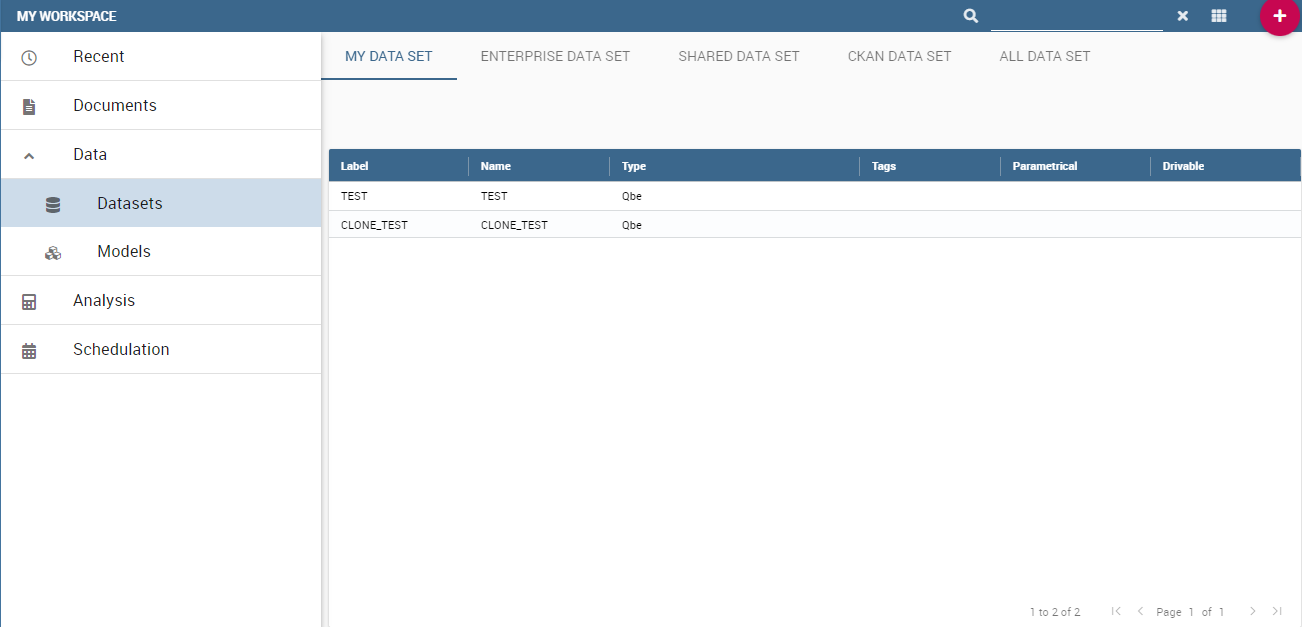
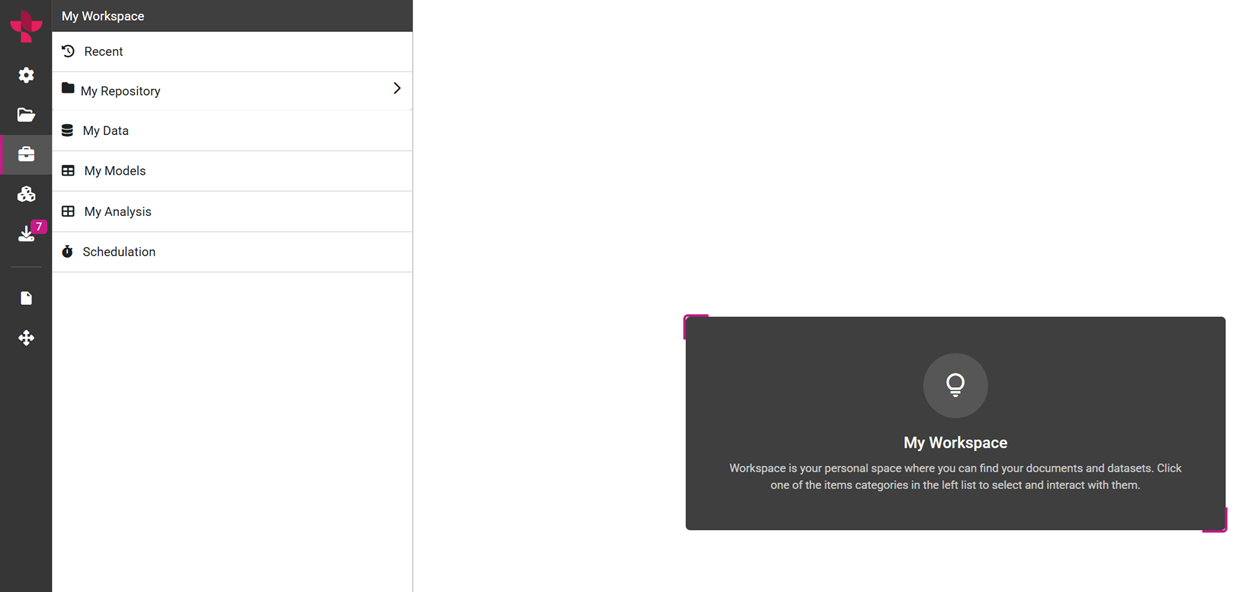
more_changes_to_user_interface_2

diff --git a/user-guide/user-interface.rst b/user-guide/user-interface.rst
@@ -12,11 +12,11 @@ The administrator will provide you a username and a password to log in Knowage e
 
    Login page
 
-These credential identifies you as user and are associated to your *role*.
+These credentials identify you as a user and are associated to your *role*.
 
 In Knowage suite, roles represent categorizations of group of users, granting each user with different rights and visibility criteria on documents and data, according to their business profile.
 
-This is what is called *Behavioural Model*. It allows to:
+This is what is called *Behavioural Model* and allows you to:
 
 -  reduce the required number of analytical documents,
 -  code only once the behavioural and visibility rules on data,
@@ -58,7 +58,7 @@ The main menu gives access to your documents, personal workspace and authorized
 modules. Expand the menu to read the labels. Your organization's configuration
 and active roles determine the entries you see.
 
-.. figure:: /_static/screenshots/9.1/user-guide-user-interface-9-1-navigation.png
+.. figure:: media/biAndGeneralMenu.png
    :alt: Knowage 9.1 main menu, document browser and account menu.
 
    Main navigation in Knowage 9.1.
@@ -93,7 +93,7 @@ My Account
       **My Account** is visible only when ``SPAGOBI.SECURITY.MY_ACCOUNT_MENU`` configuration is enabled.
   
 
-*My account* button, if enabled, allows user to access Modify profile page. Here you can change your password and, when enabled, permanently delete your account.
+The *My account* button, if enabled, allows user to access Modify profile page. Here you can change your password and, when enabled, permanently delete your account.
 
 Modify
 ^^^^^^^^^^^^^^^^^^^^^^^^^^^^^^^^^^^^^^^^^^^^^^^^^^^^^^^^^^^^^^^^^^^^^^^^^^^^^^^^^^^^^^^^^^^^^^^^^^^^^^^^^^^^^^^^^^^^^^^^
@@ -173,7 +173,7 @@ Document Browser overview
 
 Select **Documents Browser** in the main menu.
 
-.. figure:: /_static/screenshots/9.1/user-guide-user-interface-9-1-document-browser.png
+.. figure:: main/document-browser.png
 
    Document Browser
 
@@ -185,7 +185,4 @@ Each line shows the label, the name, the author and the type of the document, wh
 
    Documents details expanded.
 
-.. |image24| image:: media/image24.png
-   :width: 30
-
-At the top of this side panel you find the |image24| button, the same one you see at the end of each document line. Click on it to execute the document.
+Click the *Execute* button to run the document.
